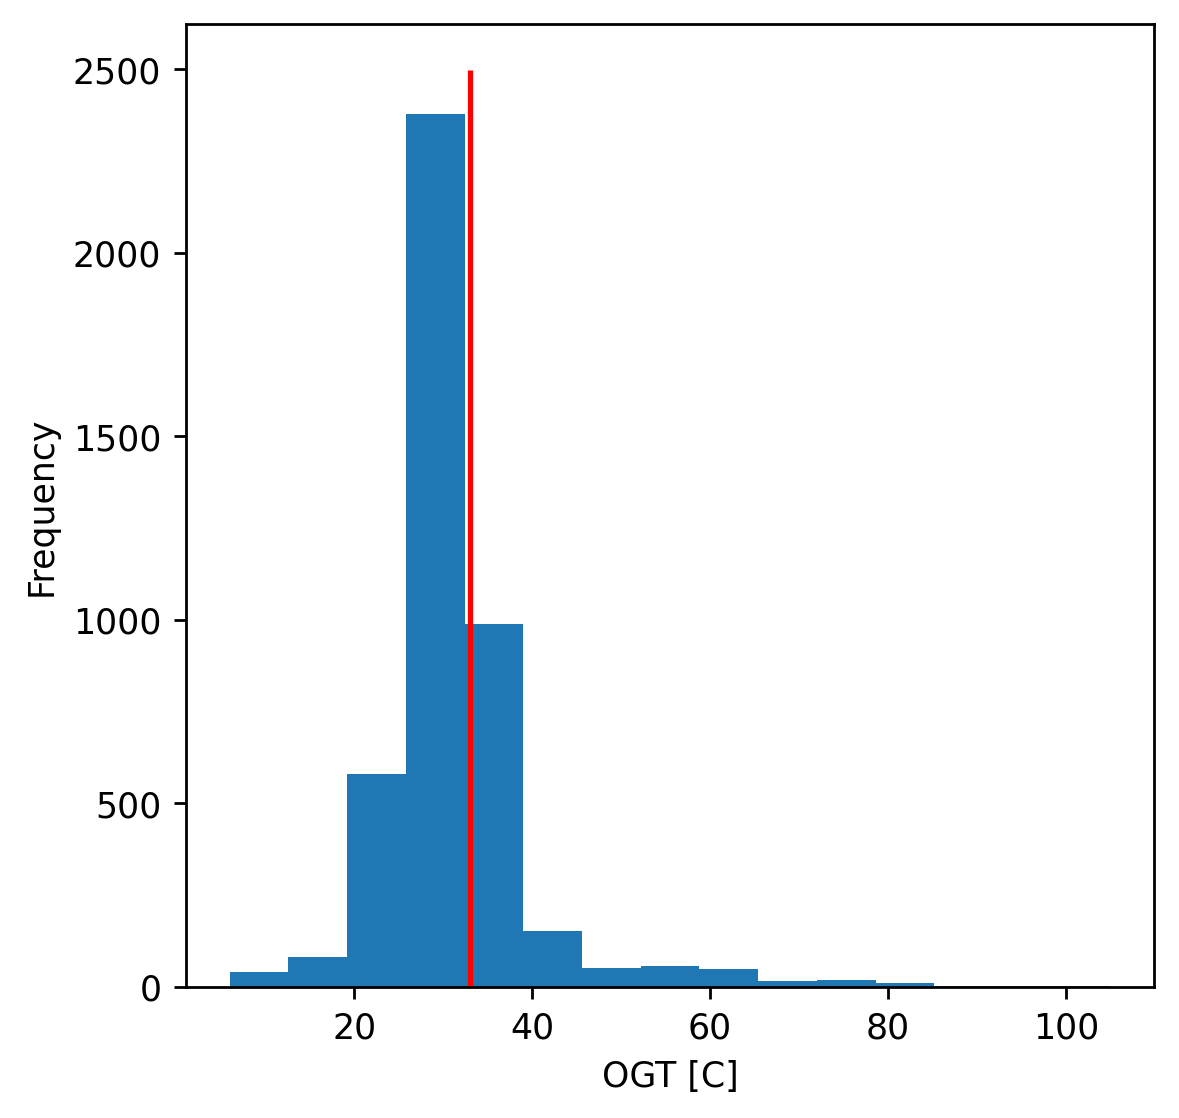
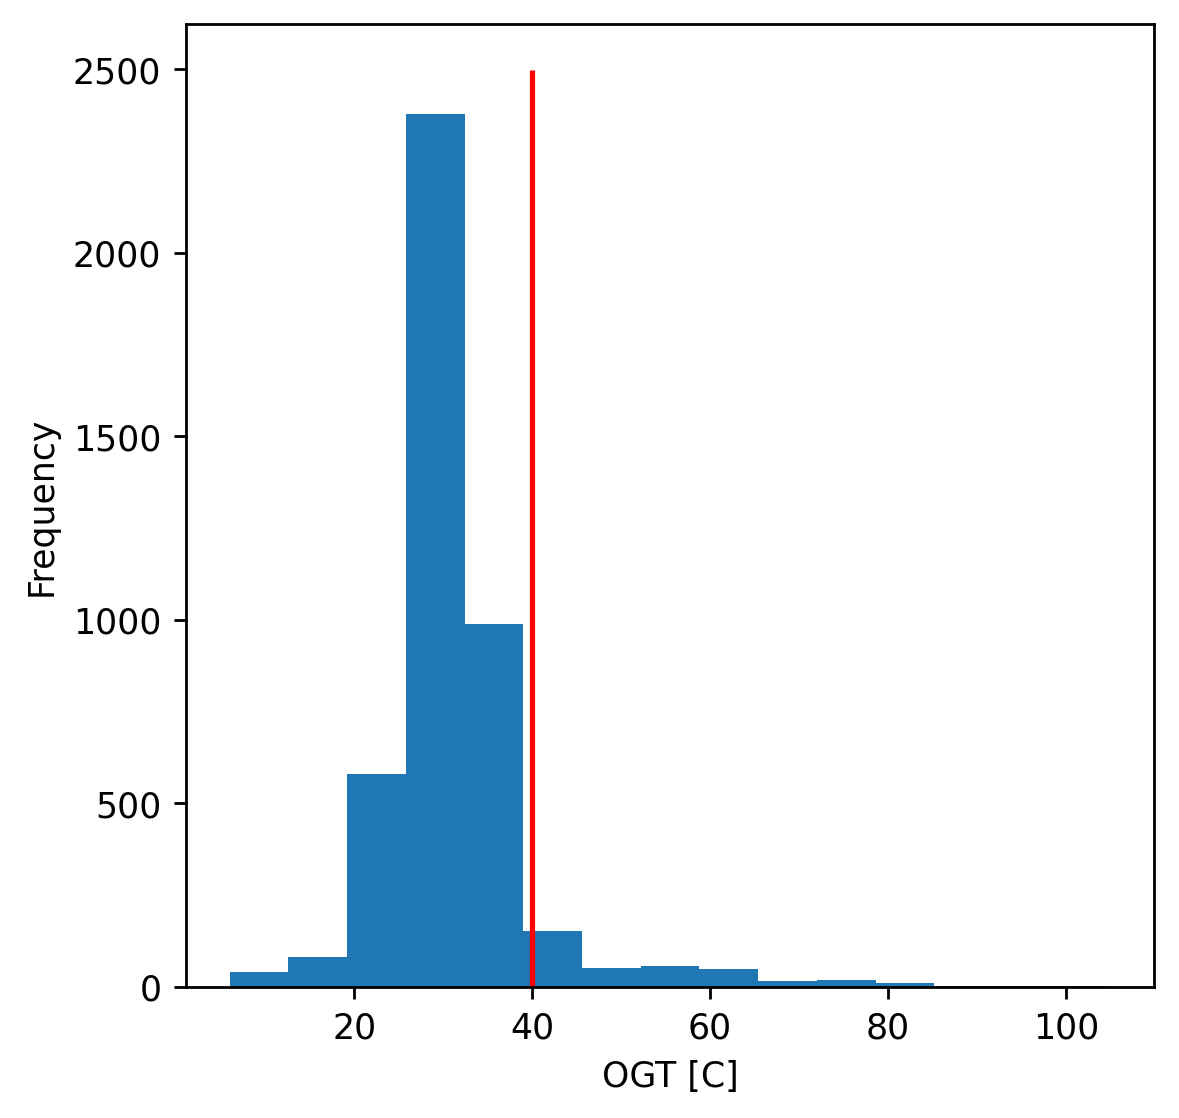
made thermo OGT threshold harsher and had to reformat protein extraction script to use semicolons instead of commas

Changed region(s): [[0.3969, 0.0608, 0.458, 0.8819]]

diff --git a/learn2therm/blast.py b/learn2therm/blast.py
@@ -69,6 +69,8 @@ class BlastFiles:
 
 class BlastMetrics:
     """Handles computation of metrics for each alignment in a blast record.
+
+    The HSP with the largest average sequence coverage is used for local metrics.
     
     Parameters
     ----------
@@ -89,6 +91,20 @@ class BlastMetrics:
         self.record = blast_record
         self.qid = self.record.query.split(' ')[0]
         logger.info(f"Query {self.qid} with {len(self.record.alignments)} alignments with ids {[a.hit_id for a in self.record.alignments]}.")
+
+    def id_hsp_best_cov(self, alignment):
+        """Determine HSP with the most average coverage of both sequences.
+        
+        Returns
+        -------
+        Index of HSP with max average seq coverage
+        Max average coverage
+        """
+        scores = []
+        for hsp in alignment.hsps:
+            scores.append(
+                (len(hsp.query.replace('-', ''))/self.record.query_length) + (len(hsp.sbjct.replace('-', ''))/alignment.length)/2)
+        return np.argmax(scores)[0], max(scores)
 
     def compute_metric(self, metric_name: str):
         """Compute the metric with specified name for each alignment"""
@@ -145,30 +161,34 @@ class BlastMetrics:
         
         The largest local HSP score is used
         """
-        scores = []
-        for hsp in alignment.hsps:
-            n_matches = hsp.identities
-            n_gaps = hsp.gaps
-            n_columns = len(hsp.query)
-            n_compressed_gaps = len(re.findall('-+', hsp.query))+len(re.findall('-+', hsp.sbjct))
-            scores.append(self.raw_gap_compressed_percent_id(n_matches, n_gaps, n_columns, n_compressed_gaps))
-        return max(scores)
+        best_hsp_idx, _ = self.id_hsp_best_cov(alignment)
+        hsp = alignment.hsps[best_hsp_idx]
+
+        n_matches = hsp.identities
+        n_gaps = hsp.gaps
+        n_columns = len(hsp.query)
+        n_compressed_gaps = len(re.findall('-+', hsp.query))+len(re.findall('-+', hsp.sbjct))
+        return self.raw_gap_compressed_percent_id(n_matches, n_gaps, n_columns, n_compressed_gaps)
 
     def scaled_local_query_percent_id(self, alignment):
         """Percent matches in query sequence based on best HSP."""
-        ids = [hsp.identities for hsp in alignment.hsps]
-        return max(ids)/self.record.query_length
+        best_hsp_idx, _ = self.id_hsp_best_cov(alignment)
+        hsp = alignment.hsps[best_hsp_idx]
+        return hsp.identities/self.record.query_length
 
     def scaled_local_symmetric_percent_id(self, alignment):
         """Percent matches compared to average seq length of query and subject based on best HSP"""
-        ids = [hsp.identities for hsp in alignment.hsps]
-        return 2*max(ids)/(self.record.query_length + alignment.length)
+        best_hsp_idx, _ = self.id_hsp_best_cov(alignment)
+        hsp = alignment.hsps[best_hsp_idx]
+        return 2*hsp.identities/(self.record.query_length + alignment.length)
 
     def local_E_value(self, alignment):
         """E value of HSP with most identities."""
-        ids = []
-        Es = []
-        for hsp in alignment.hsps:
-            ids.append(hsp.identities)
-            Es.append(hsp.expect)
-        return Es[np.argmax(ids)]
+        best_hsp_idx, _ = self.id_hsp_best_cov(alignment, self.record.query_length)
+        hsp = alignment.hsps[best_hsp_idx]
+        return hsp.expect
+
+    def local_average_coverage(self, alignment):
+        """The coverage of the HSP averaged for query and subject"""
+        return self.id_hsp_best_cov(alignment)[0]
+

diff --git a/pipeline/s1.1_get_protein_sequences.py b/pipeline/s1.1_get_protein_sequences.py
@@ -71,7 +71,7 @@ def extract_proteins_from_one(taxa_index: int, filepath: str):
     with open(OUTPUT_FILE_PROTEINS, "a") as g:
         fcntl.flock(g, fcntl.LOCK_EX)
         for i in range(len(protein_sequences['seq_len'])):
-            g.write(f"{taxa_index};{protein_sequences['sequence'][i]};{protein_sequences['desc'][i]};{protein_sequences['seq_len'][i]}\n")
+            g.write(f"{taxa_index};{protein_sequences['sequence'][i]};{protein_sequences['desc'][i].replace(';', ',')};{protein_sequences['seq_len'][i]}\n")
         fcntl.flock(g, fcntl.LOCK_UN)
     with open(OUTPUT_FILE_16srRNA, "a") as g:
         fcntl.flock(g, fcntl.LOCK_EX)
